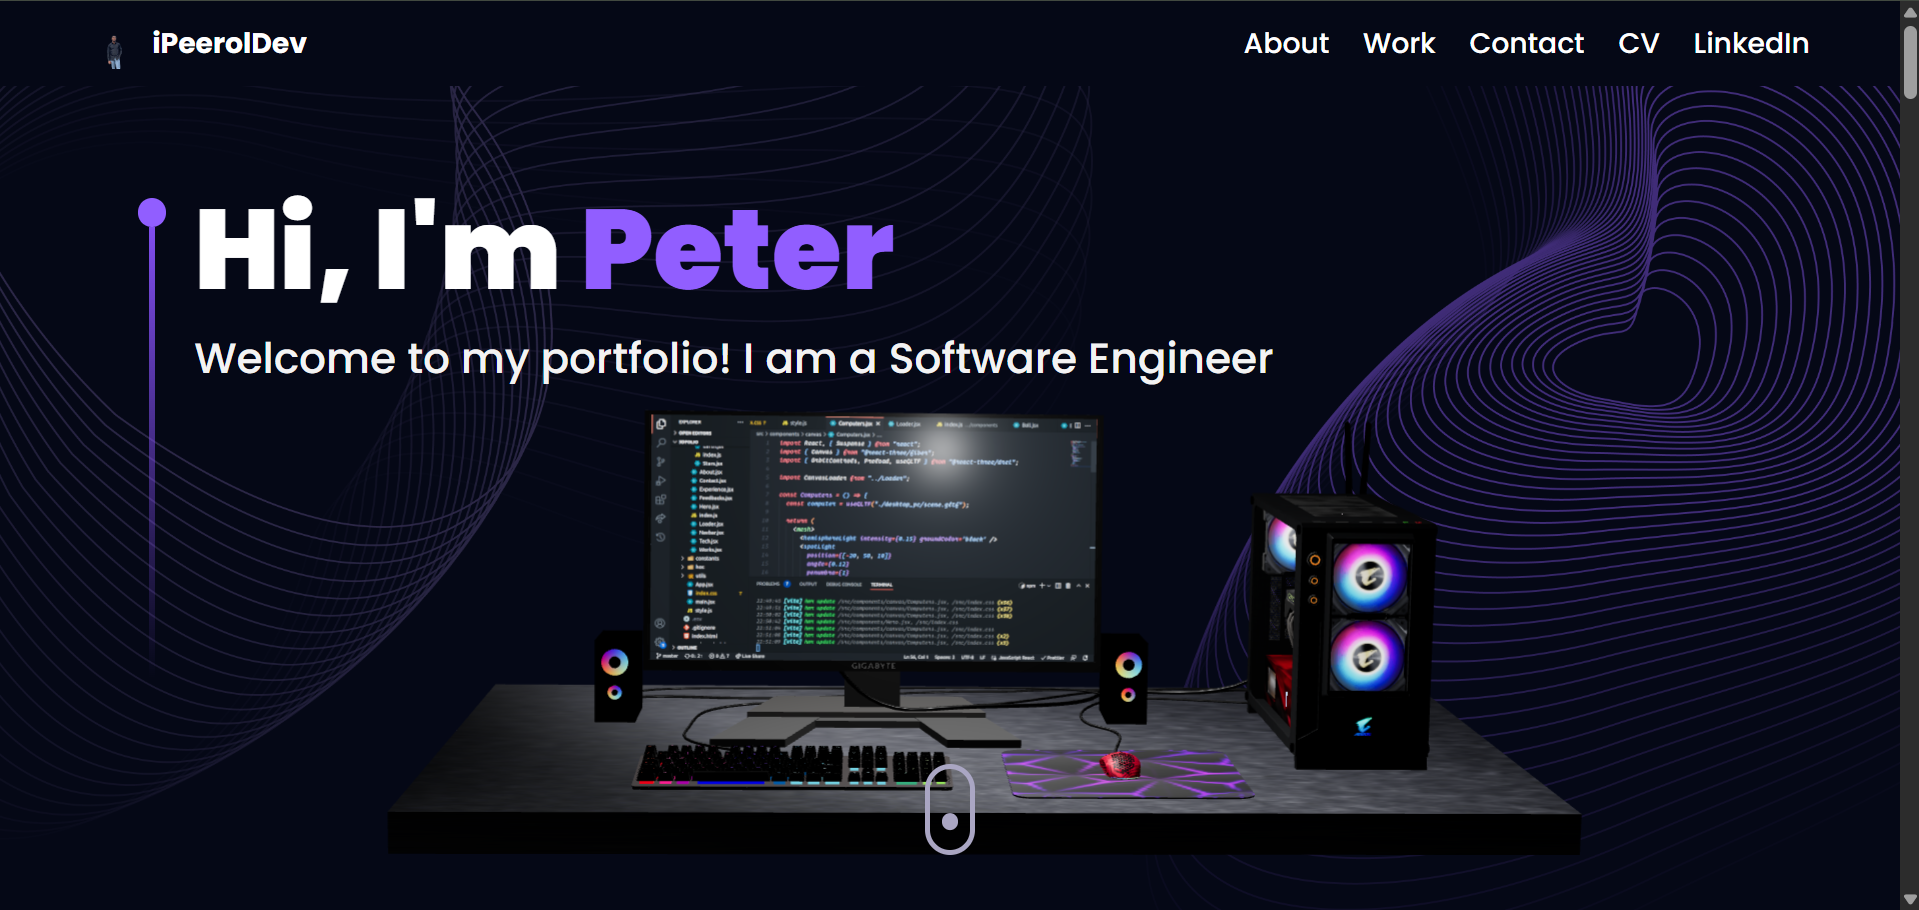
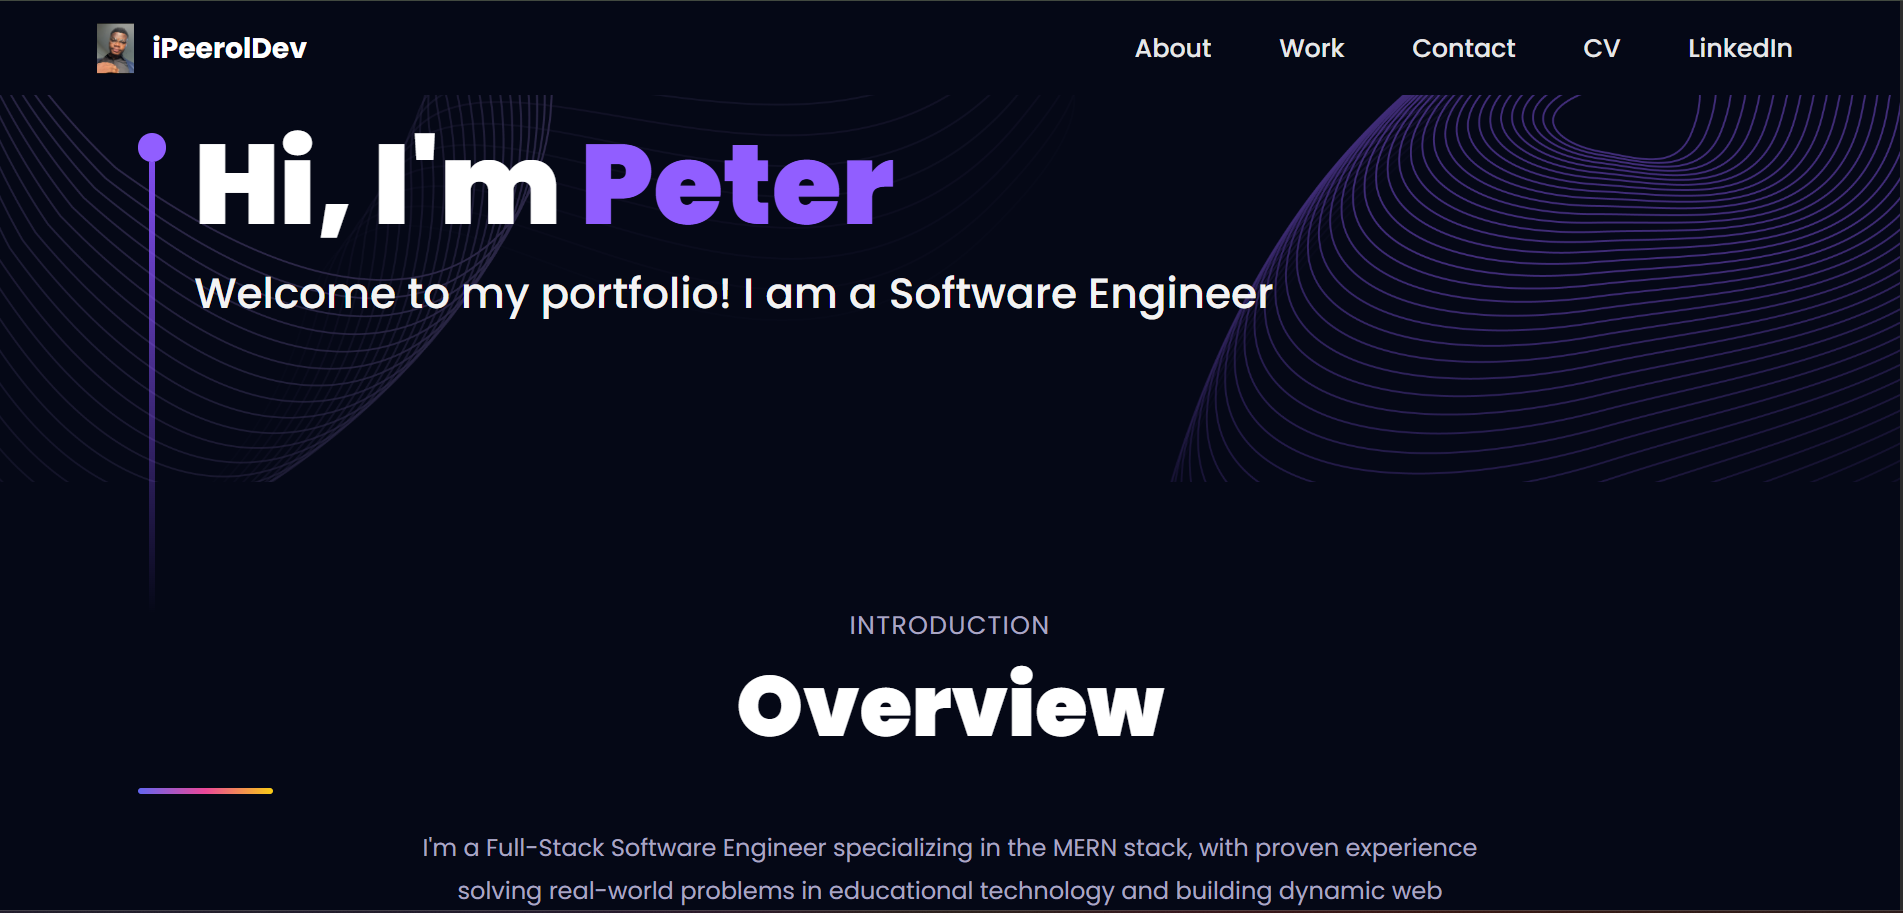
hero and other sections spacing fixed

diff --git a/src/components/Hero.jsx b/src/components/Hero.jsx
@@ -7,14 +7,14 @@ import Typewriter from "typewriter-effect";
 const Hero = () => {
   return (
     <section
-      className="relative w-full min-h-[60vh] mx-auto py-8" /* reduced height + less vertical padding */
+    className="relative w-full min-h-[50vh] sm:min-h-[56vh] mx-auto py-8"
     >
       <div
-        className={`absolute inset-0 top-[120px] max-w-7xl mx-auto ${styles.paddingX} flex flex-row items-start gap-5`}
+        className={`absolute inset-0 top-[80px] max-w-7xl mx-auto ${styles.paddingX} flex flex-row items-start gap-7`}
       >
         <div className="flex flex-col justify-center items-center mt-5">
           <div className="w-5 h-5 rounded-full bg-[#915EFF]" />
-          <div className="w-1 sm:h-80 h-40 violet-gradient" />
+          <div className="w-1 sm:h-[200px] h-40 violet-gradient" />
         </div>
 
         <div>
